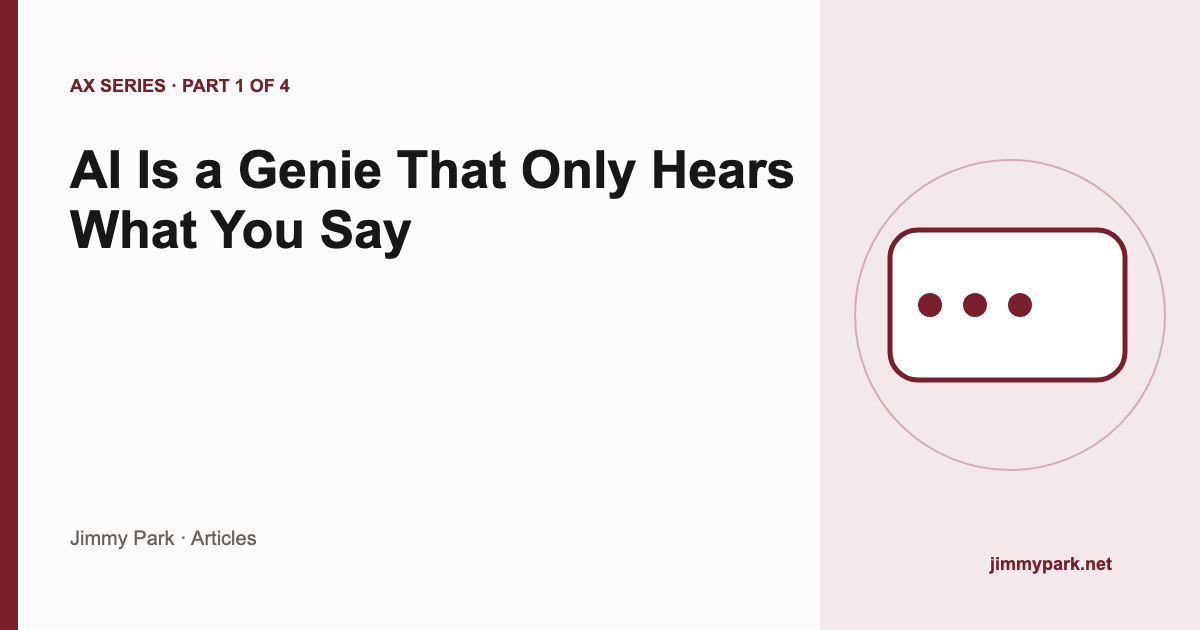
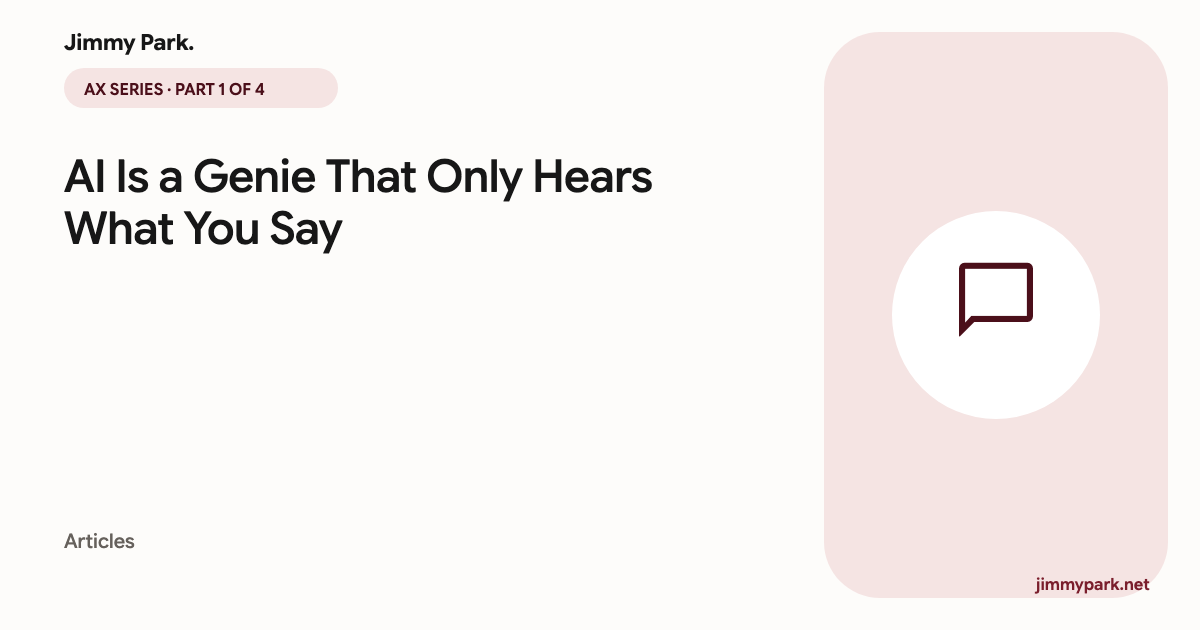
feat: rebuild social cards with Material 3 tokens

diff --git a/insights.html b/insights.html
@@ -2,11 +2,11 @@
 <html lang="en"><head><meta charset="utf-8"><meta name="viewport" content="width=device-width, initial-scale=1">
 <title>Articles | Jimmy Park</title><meta name="description" content="Practical articles on media, web development, applied AI, and Scouting communication."><link rel="canonical" href="https://jimmypark.net/insights">
 <meta property="og:type" content="website"><meta property="og:site_name" content="Jimmy Park"><meta property="og:title" content="Articles | Jimmy Park"><meta property="og:description" content="Practical articles on media, web development, applied AI, and Scouting communication."><meta property="og:url" content="https://jimmypark.net/insights">
-<meta property="og:image" content="https://jimmypark.net/assets/img/og/articles.png"><meta property="og:image:secure_url" content="https://jimmypark.net/assets/img/og/articles.png"><meta property="og:image:width" content="1200"><meta property="og:image:height" content="630"><meta property="og:image:alt" content="Jimmy Park Articles — notes from practice">
-<meta name="twitter:card" content="summary_large_image"><meta name="twitter:image" content="https://jimmypark.net/assets/img/og/articles.png"><meta name="twitter:image:alt" content="Jimmy Park Articles — notes from practice"><meta name="twitter:title" content="Articles | Jimmy Park"><meta name="twitter:description" content="Practical articles on media, web development, applied AI, and Scouting communication.">
+<meta property="og:image" content="https://jimmypark.net/assets/img/og/articles.png?v=0.22.0"><meta property="og:image:secure_url" content="https://jimmypark.net/assets/img/og/articles.png?v=0.22.0"><meta property="og:image:width" content="1200"><meta property="og:image:height" content="630"><meta property="og:image:alt" content="Jimmy Park Articles — notes from practice">
+<meta name="twitter:card" content="summary_large_image"><meta name="twitter:image" content="https://jimmypark.net/assets/img/og/articles.png?v=0.22.0"><meta name="twitter:image:alt" content="Jimmy Park Articles — notes from practice"><meta name="twitter:title" content="Articles | Jimmy Park"><meta name="twitter:description" content="Practical articles on media, web development, applied AI, and Scouting communication.">
 <link rel="icon" href="/assets/img/favicon.svg?v=0.9.0" type="image/svg+xml">
 <link rel="preconnect" href="https://fonts.googleapis.com"><link rel="preconnect" href="https://fonts.gstatic.com" crossorigin><link href="https://fonts.googleapis.com/css2?family=Google+Sans+Flex:opsz,wght@6..144,1..1000&amp;display=swap" rel="stylesheet"><link href="https://fonts.googleapis.com/css2?family=Material+Symbols+Outlined:opsz,wght,FILL,GRAD@20..48,400,0..1,0&amp;display=swap" rel="stylesheet">
-<link rel="stylesheet" href="/assets/site.css?v=0.21.0"></head>
+<link rel="stylesheet" href="/assets/site.css?v=0.22.0"></head>
 <body data-page="insights" class="portfolio"><a class="skip-link" href="#main-content">Skip to content</a>
 <header class="site-header">
   <div class="site-container header-inner">
@@ -59,4 +59,4 @@
     </div>
   </div>
 </footer>
-<script src="/assets/site.js?v=0.21.0" defer></script></body></html>
+<script src="/assets/site.js?v=0.22.0" defer></script></body></html>

diff --git a/lecture.html b/lecture.html
@@ -11,20 +11,20 @@
 <meta property="og:title" content="Lectures &amp; Workshops | Jimmy Park">
 <meta property="og:description" content="Korean-language lectures and workshops by Jimmy Park on branded film, youth media, applied AI and Scouting — plus 1:1 and small-group sessions. English available on request.">
 <meta property="og:url" content="https://jimmypark.net/lecture">
-<meta property="og:image" content="https://jimmypark.net/assets/img/og/lecture.png">
-<meta property="og:image:secure_url" content="https://jimmypark.net/assets/img/og/lecture.png">
+<meta property="og:image" content="https://jimmypark.net/assets/img/og/lecture.png?v=0.22.0">
+<meta property="og:image:secure_url" content="https://jimmypark.net/assets/img/og/lecture.png?v=0.22.0">
 <meta property="og:image:width" content="1200">
 <meta property="og:image:height" content="630">
 <meta property="og:image:alt" content="Jimmy Park lectures and learning — understanding before tools">
 <meta name="twitter:title" content="Lectures &amp; Workshops | Jimmy Park">
 <meta name="twitter:description" content="Korean-language lectures and workshops by Jimmy Park on branded film, youth media, applied AI and Scouting — plus 1:1 and small-group sessions. English available on request.">
 <meta name="twitter:card" content="summary_large_image">
-<meta name="twitter:image" content="https://jimmypark.net/assets/img/og/lecture.png">
+<meta name="twitter:image" content="https://jimmypark.net/assets/img/og/lecture.png?v=0.22.0">
 <meta name="twitter:image:alt" content="Jimmy Park lectures and learning — understanding before tools">
 <link rel="icon" href="/assets/img/favicon.svg?v=0.9.0" type="image/svg+xml">
 <link rel="stylesheet" as="style" crossorigin href="https://cdn.jsdelivr.net/gh/orioncactus/pretendard@v1.3.9/dist/web/static/pretendard.min.css">
 <link rel="preconnect" href="https://fonts.googleapis.com"><link rel="preconnect" href="https://fonts.gstatic.com" crossorigin><link href="https://fonts.googleapis.com/css2?family=Google+Sans+Flex:opsz,wght@6..144,1..1000&amp;display=swap" rel="stylesheet"><link href="https://fonts.googleapis.com/css2?family=Material+Symbols+Outlined:opsz,wght,FILL,GRAD@20..48,400,0..1,0&amp;display=swap" rel="stylesheet">
-<link rel="stylesheet" href="/assets/site.css?v=0.21.0">
+<link rel="stylesheet" href="/assets/site.css?v=0.22.0">
 </head>
 <body data-page="lecture" class="portfolio">
 <a class="skip-link" href="#main-content">Skip to content</a>
@@ -139,6 +139,6 @@ All lectures to date have been delivered in Korean. Korean is the default; Engli
 </footer>
 
 <div class="copy-toast"><span class="msym" aria-hidden="true" style="font-size:17px;">check_circle</span>Copied</div>
-<script src="/assets/site.js?v=0.21.0" defer></script>
+<script src="/assets/site.js?v=0.22.0" defer></script>
 </body>
 </html>

diff --git a/index.html b/index.html
@@ -11,20 +11,20 @@
 <meta property="og:title" content="Jimmy Park (박지민) | Producer, Platform Builder &amp; Applied AI Practitioner">
 <meta property="og:description" content="Jimmy Park (박지민) is a Korea-based producer and builder who turns complex goals into films, learning platforms and practical AI workflows, supported by international collaboration.">
 <meta property="og:url" content="https://jimmypark.net/">
-<meta property="og:image" content="https://jimmypark.net/assets/img/og/home.png">
-<meta property="og:image:secure_url" content="https://jimmypark.net/assets/img/og/home.png">
+<meta property="og:image" content="https://jimmypark.net/assets/img/og/home.png?v=0.22.0">
+<meta property="og:image:secure_url" content="https://jimmypark.net/assets/img/og/home.png?v=0.22.0">
 <meta property="og:image:width" content="1200">
 <meta property="og:image:height" content="630">
 <meta property="og:image:alt" content="Jimmy Park — purpose first, the right medium, built for use">
 <meta name="twitter:card" content="summary_large_image">
 <meta name="twitter:title" content="Jimmy Park (박지민) | Producer, Platform Builder &amp; Applied AI Practitioner">
 <meta name="twitter:description" content="Jimmy Park (박지민) is a Korea-based producer and builder who turns complex goals into films, learning platforms and practical AI workflows, supported by international collaboration.">
-<meta name="twitter:image" content="https://jimmypark.net/assets/img/og/home.png">
+<meta name="twitter:image" content="https://jimmypark.net/assets/img/og/home.png?v=0.22.0">
 <meta name="twitter:image:alt" content="Jimmy Park — purpose first, the right medium, built for use">
 <link rel="icon" href="/assets/img/favicon.svg?v=0.9.0" type="image/svg+xml">
 <link rel="stylesheet" as="style" crossorigin href="https://cdn.jsdelivr.net/gh/orioncactus/pretendard@v1.3.9/dist/web/static/pretendard.min.css">
 <link rel="preconnect" href="https://fonts.googleapis.com"><link rel="preconnect" href="https://fonts.gstatic.com" crossorigin><link href="https://fonts.googleapis.com/css2?family=Google+Sans+Flex:opsz,wght@6..144,1..1000&amp;display=swap" rel="stylesheet"><link href="https://fonts.googleapis.com/css2?family=Material+Symbols+Outlined:opsz,wght,FILL,GRAD@20..48,400,0..1,0&amp;display=swap" rel="stylesheet">
-<link rel="stylesheet" href="/assets/site.css?v=0.21.0">
+<link rel="stylesheet" href="/assets/site.css?v=0.22.0">
 <script type="application/ld+json">
 {
   "@context": "https://schema.org",
@@ -255,6 +255,6 @@ and carry the work through.</h1>
 </footer>
 
 <div class="copy-toast"><span class="msym" aria-hidden="true" style="font-size:17px;">check_circle</span>Copied</div>
-<script src="/assets/site.js?v=0.21.0" defer></script>
+<script src="/assets/site.js?v=0.22.0" defer></script>
 </body>
 </html>

diff --git a/work.html b/work.html
@@ -11,20 +11,20 @@
 <meta property="og:title" content="Media Work: Video Production &amp; Photography | Jimmy Park">
 <meta property="og:description" content="Explore Jimmy Park’s media work: keynote videos, promotional films, branded series and event films with credited roles, plus press-ready field photography.">
 <meta property="og:url" content="https://jimmypark.net/work">
-<meta property="og:image" content="https://jimmypark.net/assets/img/og/media-work.png">
-<meta property="og:image:secure_url" content="https://jimmypark.net/assets/img/og/media-work.png">
+<meta property="og:image" content="https://jimmypark.net/assets/img/og/media-work.png?v=0.22.0">
+<meta property="og:image:secure_url" content="https://jimmypark.net/assets/img/og/media-work.png?v=0.22.0">
 <meta property="og:image:width" content="1200">
 <meta property="og:image:height" content="630">
 <meta property="og:image:alt" content="Jimmy Park media work — stories shaped for attention and meaning">
 <meta name="twitter:title" content="Media Work: Video Production &amp; Photography | Jimmy Park">
 <meta name="twitter:description" content="Explore Jimmy Park’s media work: keynote videos, promotional films, branded series and event films with credited roles, plus press-ready field photography.">
 <meta name="twitter:card" content="summary_large_image">
-<meta name="twitter:image" content="https://jimmypark.net/assets/img/og/media-work.png">
+<meta name="twitter:image" content="https://jimmypark.net/assets/img/og/media-work.png?v=0.22.0">
 <meta name="twitter:image:alt" content="Jimmy Park media work — stories shaped for attention and meaning">
 <link rel="icon" href="/assets/img/favicon.svg?v=0.9.0" type="image/svg+xml">
 <link rel="stylesheet" as="style" crossorigin href="https://cdn.jsdelivr.net/gh/orioncactus/pretendard@v1.3.9/dist/web/static/pretendard.min.css">
 <link rel="preconnect" href="https://fonts.googleapis.com"><link rel="preconnect" href="https://fonts.gstatic.com" crossorigin><link href="https://fonts.googleapis.com/css2?family=Google+Sans+Flex:opsz,wght@6..144,1..1000&amp;display=swap" rel="stylesheet"><link href="https://fonts.googleapis.com/css2?family=Material+Symbols+Outlined:opsz,wght,FILL,GRAD@20..48,400,0..1,0&amp;display=swap" rel="stylesheet">
-<link rel="stylesheet" href="/assets/site.css?v=0.21.0">
+<link rel="stylesheet" href="/assets/site.css?v=0.22.0">
 </head>
 <body data-page="work" class="portfolio">
 <a class="skip-link" href="#main-content">Skip to content</a>
@@ -175,6 +175,6 @@ and field photography.</h1>
 </footer>
 
 <div class="copy-toast"><span class="msym" aria-hidden="true" style="font-size:17px;">check_circle</span>Copied</div>
-<script src="/assets/site.js?v=0.21.0" defer></script>
+<script src="/assets/site.js?v=0.22.0" defer></script>
 </body>
 </html>

diff --git a/scouting.html b/scouting.html
@@ -11,20 +11,20 @@
 <meta property="og:title" content="Global Scouting &amp; International Collaboration | Jimmy Park">
 <meta property="og:description" content="Explore Jimmy Park’s documented Scouting roles, Asia-Pacific Region service, World Scout Jamboree media work and international experience.">
 <meta property="og:url" content="https://jimmypark.net/scouting">
-<meta property="og:image" content="https://jimmypark.net/assets/img/og/scouting.png">
-<meta property="og:image:secure_url" content="https://jimmypark.net/assets/img/og/scouting.png">
+<meta property="og:image" content="https://jimmypark.net/assets/img/og/scouting.png?v=0.22.0">
+<meta property="og:image:secure_url" content="https://jimmypark.net/assets/img/og/scouting.png?v=0.22.0">
 <meta property="og:image:width" content="1200">
 <meta property="og:image:height" content="630">
 <meta property="og:image:alt" content="Jimmy Park global and Scouting work — context changes the work">
 <meta name="twitter:title" content="Global Scouting &amp; International Collaboration | Jimmy Park">
 <meta name="twitter:description" content="Explore Jimmy Park’s documented Scouting roles, Asia-Pacific Region service, World Scout Jamboree media work and international experience.">
 <meta name="twitter:card" content="summary_large_image">
-<meta name="twitter:image" content="https://jimmypark.net/assets/img/og/scouting.png">
+<meta name="twitter:image" content="https://jimmypark.net/assets/img/og/scouting.png?v=0.22.0">
 <meta name="twitter:image:alt" content="Jimmy Park global and Scouting work — context changes the work">
 <link rel="icon" href="/assets/img/favicon.svg?v=0.9.0" type="image/svg+xml">
 <link rel="stylesheet" as="style" crossorigin href="https://cdn.jsdelivr.net/gh/orioncactus/pretendard@v1.3.9/dist/web/static/pretendard.min.css">
 <link rel="preconnect" href="https://fonts.googleapis.com"><link rel="preconnect" href="https://fonts.gstatic.com" crossorigin><link href="https://fonts.googleapis.com/css2?family=Google+Sans+Flex:opsz,wght@6..144,1..1000&amp;display=swap" rel="stylesheet"><link href="https://fonts.googleapis.com/css2?family=Material+Symbols+Outlined:opsz,wght,FILL,GRAD@20..48,400,0..1,0&amp;display=swap" rel="stylesheet">
-<link rel="stylesheet" href="/assets/site.css?v=0.21.0">
+<link rel="stylesheet" href="/assets/site.css?v=0.22.0">
 </head>
 <body data-page="scouting" class="portfolio">
 <a class="skip-link" href="#main-content">Skip to content</a>
@@ -222,6 +222,6 @@ international collaboration.</h1>
 </dialog>
 
 <div class="copy-toast"><span class="msym" aria-hidden="true" style="font-size:17px;">check_circle</span>Copied</div>
-<script src="/assets/site.js?v=0.21.0" defer></script>
+<script src="/assets/site.js?v=0.22.0" defer></script>
 </body>
 </html>

diff --git a/dev.html b/dev.html
@@ -11,20 +11,20 @@
 <meta property="og:title" content="Dev Work: Practical Websites &amp; Applied AI | Jimmy Park">
 <meta property="og:description" content="Practical websites and web tools shaped around user needs, with applied AI supporting planning, development, and ongoing operations.">
 <meta property="og:url" content="https://jimmypark.net/dev">
-<meta property="og:image" content="https://jimmypark.net/assets/img/og/dev-work.png">
-<meta property="og:image:secure_url" content="https://jimmypark.net/assets/img/og/dev-work.png">
+<meta property="og:image" content="https://jimmypark.net/assets/img/og/dev-work.png?v=0.22.0">
+<meta property="og:image:secure_url" content="https://jimmypark.net/assets/img/og/dev-work.png?v=0.22.0">
 <meta property="og:image:width" content="1200">
 <meta property="og:image:height" content="630">
 <meta property="og:image:alt" content="Jimmy Park development work — platforms built for real use">
 <meta name="twitter:title" content="Dev Work: Practical Websites &amp; Applied AI | Jimmy Park">
 <meta name="twitter:description" content="Practical websites and web tools shaped around user needs, with applied AI supporting planning, development, and ongoing operations.">
 <meta name="twitter:card" content="summary_large_image">
-<meta name="twitter:image" content="https://jimmypark.net/assets/img/og/dev-work.png">
+<meta name="twitter:image" content="https://jimmypark.net/assets/img/og/dev-work.png?v=0.22.0">
 <meta name="twitter:image:alt" content="Jimmy Park development work — platforms built for real use">
 <link rel="icon" href="/assets/img/favicon.svg?v=0.9.0" type="image/svg+xml">
 <link rel="stylesheet" as="style" crossorigin href="https://cdn.jsdelivr.net/gh/orioncactus/pretendard@v1.3.9/dist/web/static/pretendard.min.css">
 <link rel="preconnect" href="https://fonts.googleapis.com"><link rel="preconnect" href="https://fonts.gstatic.com" crossorigin><link href="https://fonts.googleapis.com/css2?family=Google+Sans+Flex:opsz,wght@6..144,1..1000&amp;display=swap" rel="stylesheet"><link href="https://fonts.googleapis.com/css2?family=Material+Symbols+Outlined:opsz,wght,FILL,GRAD@20..48,400,0..1,0&amp;display=swap" rel="stylesheet">
-<link rel="stylesheet" href="/assets/site.css?v=0.21.0">
+<link rel="stylesheet" href="/assets/site.css?v=0.22.0">
 </head>
 <body data-page="dev" class="portfolio">
 <a class="skip-link" href="#main-content">Skip to content</a>
@@ -147,6 +147,6 @@ Build a practical path with AI.</h1>
 </footer>
 
 <div class="copy-toast"><span class="msym" aria-hidden="true" style="font-size:17px;">check_circle</span>Copied</div>
-<script src="/assets/site.js?v=0.21.0" defer></script>
+<script src="/assets/site.js?v=0.22.0" defer></script>
 </body>
 </html>

diff --git a/contact.html b/contact.html
@@ -11,20 +11,20 @@
 <meta property="og:title" content="Contact Jimmy Park | Video, Education &amp; AI">
 <meta property="og:description" content="Contact Jimmy Park to share a brief for video, learning platforms, applied AI workflows, or global Scouting collaboration.">
 <meta property="og:url" content="https://jimmypark.net/contact">
-<meta property="og:image" content="https://jimmypark.net/assets/img/og/contact.png">
-<meta property="og:image:secure_url" content="https://jimmypark.net/assets/img/og/contact.png">
+<meta property="og:image" content="https://jimmypark.net/assets/img/og/contact.png?v=0.22.0">
+<meta property="og:image:secure_url" content="https://jimmypark.net/assets/img/og/contact.png?v=0.22.0">
 <meta property="og:image:width" content="1200">
 <meta property="og:image:height" content="630">
 <meta property="og:image:alt" content="Start a conversation with Jimmy Park">
 <meta name="twitter:title" content="Contact Jimmy Park | Video, Education &amp; AI">
 <meta name="twitter:description" content="Contact Jimmy Park to share a brief for video, learning platforms, applied AI workflows, or global Scouting collaboration.">
 <meta name="twitter:card" content="summary_large_image">
-<meta name="twitter:image" content="https://jimmypark.net/assets/img/og/contact.png">
+<meta name="twitter:image" content="https://jimmypark.net/assets/img/og/contact.png?v=0.22.0">
 <meta name="twitter:image:alt" content="Start a conversation with Jimmy Park">
 <link rel="icon" href="/assets/img/favicon.svg?v=0.9.0" type="image/svg+xml">
 <link rel="stylesheet" as="style" crossorigin href="https://cdn.jsdelivr.net/gh/orioncactus/pretendard@v1.3.9/dist/web/static/pretendard.min.css">
 <link rel="preconnect" href="https://fonts.googleapis.com"><link rel="preconnect" href="https://fonts.gstatic.com" crossorigin><link href="https://fonts.googleapis.com/css2?family=Google+Sans+Flex:opsz,wght@6..144,1..1000&amp;display=swap" rel="stylesheet"><link href="https://fonts.googleapis.com/css2?family=Material+Symbols+Outlined:opsz,wght,FILL,GRAD@20..48,400,0..1,0&amp;display=swap" rel="stylesheet">
-<link rel="stylesheet" href="/assets/site.css?v=0.21.0">
+<link rel="stylesheet" href="/assets/site.css?v=0.22.0">
 </head>
 <body data-page="contact" class="portfolio">
 <a class="skip-link" href="#main-content">Skip to content</a>
@@ -153,6 +153,6 @@ Timeline:
 </footer>
 
 <div class="copy-toast"><span class="msym" aria-hidden="true" style="font-size:17px;">check_circle</span>Copied</div>
-<script src="/assets/site.js?v=0.21.0" defer></script>
+<script src="/assets/site.js?v=0.22.0" defer></script>
 </body>
 </html>

diff --git a/admin.html b/admin.html
@@ -8,7 +8,7 @@
 <link rel="icon" href="/assets/img/favicon.svg?v=0.9.0" type="image/svg+xml">
 <link rel="stylesheet" as="style" crossorigin href="https://cdn.jsdelivr.net/gh/orioncactus/pretendard@v1.3.9/dist/web/static/pretendard.min.css">
 <link rel="preconnect" href="https://fonts.googleapis.com"><link rel="preconnect" href="https://fonts.gstatic.com" crossorigin><link href="https://fonts.googleapis.com/css2?family=Google+Sans+Flex:opsz,wght@6..144,1..1000&amp;display=swap" rel="stylesheet"><link href="https://fonts.googleapis.com/css2?family=Material+Symbols+Outlined:opsz,wght,FILL,GRAD@20..48,400,0..1,0&amp;display=swap" rel="stylesheet">
-<link rel="stylesheet" href="/assets/site.css?v=0.21.0">
+<link rel="stylesheet" href="/assets/site.css?v=0.22.0">
 <style>
   /* Admin and the portfolio share the owner-selected Wanted Sans family. */
   body { background: #f7f6f3; font-family: 'Wanted Sans Variable', 'Pretendard', -apple-system, BlinkMacSystemFont, 'Segoe UI', system-ui, sans-serif; }
@@ -209,7 +209,7 @@
 </div>
 
 <input id="file-input" type="file" accept="image/*" multiple style="display:none;">
-<script src="/assets/insights-admin.js?v=0.21.0" defer></script>
-<script src="/assets/admin.js?v=0.21.0" defer></script>
+<script src="/assets/insights-admin.js?v=0.22.0" defer></script>
+<script src="/assets/admin.js?v=0.22.0" defer></script>
 </body>
 </html>

diff --git a/functions/_insights-shell.js b/functions/_insights-shell.js
@@ -6,7 +6,7 @@ export const INSIGHTS_SHELL = `<!DOCTYPE html>
 <meta name="twitter:card" content="summary_large_image"><meta name="twitter:image" content="__IMAGE__"><meta name="twitter:image:alt" content="__IMAGE_ALT__"><meta name="twitter:title" content="__TITLE__"><meta name="twitter:description" content="__DESC__">__ROBOTS__
 <link rel="icon" href="/assets/img/favicon.svg?v=0.9.0" type="image/svg+xml">
 <link rel="preconnect" href="https://fonts.googleapis.com"><link rel="preconnect" href="https://fonts.gstatic.com" crossorigin><link href="https://fonts.googleapis.com/css2?family=Google+Sans+Flex:opsz,wght@6..144,1..1000&amp;display=swap" rel="stylesheet"><link href="https://fonts.googleapis.com/css2?family=Material+Symbols+Outlined:opsz,wght,FILL,GRAD@20..48,400,0..1,0&amp;display=swap" rel="stylesheet">
-<link rel="stylesheet" href="/assets/site.css?v=0.21.0"></head>
+<link rel="stylesheet" href="/assets/site.css?v=0.22.0"></head>
 <body data-page="insights" class="portfolio"><a class="skip-link" href="#main-content">Skip to content</a>
 <header class="site-header">
   <div class="site-container header-inner">
@@ -59,4 +59,4 @@ export const INSIGHTS_SHELL = `<!DOCTYPE html>
     </div>
   </div>
 </footer>
-<script src="/assets/site.js?v=0.21.0" defer></script></body></html>`;
+<script src="/assets/site.js?v=0.22.0" defer></script></body></html>`;

diff --git a/404.html b/404.html
@@ -5,7 +5,7 @@
 <meta name="twitter:card" content="summary"><meta name="twitter:title" content="Page not found | Jimmy Park"><meta name="twitter:description" content="This page could not be found. Explore Jimmy Park’s work or return to the homepage.">
 <link rel="icon" href="/assets/img/favicon.svg?v=0.9.0" type="image/svg+xml">
 <link rel="preconnect" href="https://fonts.googleapis.com"><link rel="preconnect" href="https://fonts.gstatic.com" crossorigin><link href="https://fonts.googleapis.com/css2?family=Google+Sans+Flex:opsz,wght@6..144,1..1000&amp;display=swap" rel="stylesheet"><link href="https://fonts.googleapis.com/css2?family=Material+Symbols+Outlined:opsz,wght,FILL,GRAD@20..48,400,0..1,0&amp;display=swap" rel="stylesheet">
-<link rel="stylesheet" href="/assets/site.css?v=0.21.0"></head>
+<link rel="stylesheet" href="/assets/site.css?v=0.22.0"></head>
 <body data-page="not-found" class="portfolio"><a class="skip-link" href="#main-content">Skip to content</a>
 <header class="site-header">
   <div class="site-container header-inner">
@@ -58,4 +58,4 @@
     </div>
   </div>
 </footer>
-<script src="/assets/site.js?v=0.21.0" defer></script></body></html>
+<script src="/assets/site.js?v=0.22.0" defer></script></body></html>

diff --git a/functions/_insights-view.js b/functions/_insights-view.js
@@ -64,11 +64,11 @@ const SERIES = {
   'if-people-cannot-understand-it-little-remains': { name: 'The Work Behind the Work', part: 4 },
 };
 const PAGE_SIZE = 5;
-const DEFAULT_IMAGE = 'https://jimmypark.net/assets/img/og/articles.png';
+const DEFAULT_IMAGE = 'https://jimmypark.net/assets/img/og/articles.png?v=0.22.0';
 
 function articleImage(post) {
   const value = String(post?.image || '').trim();
-  if (/^\/assets\/img\/[A-Za-z0-9._/-]+$/u.test(value)) return 'https://jimmypark.net' + value;
+  if (/^\/assets\/img\/[A-Za-z0-9._/-]+$/u.test(value)) return 'https://jimmypark.net' + value + (value.startsWith('/assets/img/og/') ? '?v=0.22.0' : '');
   if (/^https:\/\/[^\s]+$/u.test(value)) return value;
   return DEFAULT_IMAGE;
 }

diff --git a/design.md b/design.md
@@ -558,5 +558,17 @@ these roles; new rules should use the `--md-*` names directly.
   wrapping row below tags and above the conversation CTA, so the reading column remains usable at
   phone widths without platform-specific colors competing with the site identity.
 
+## 22. Material 3 OG artwork (v0.22.0)
+- OG cards are not an official Material component. They adapt the system using the site token map:
+  surface low background, primary/tertiary containers, on-container icon color, outline variants,
+  8px-based spacing, 28px/full shapes and the M3 display/label hierarchy.
+- Google Sans Flex is required for every text layer. Topic illustrations use only official Material
+  Symbols Outlined inside a tonal container and surface circle; handcrafted replacement icons are
+  not part of this system.
+- Portfolio page cards may use owned photography in a 28px rounded supporting pane. Article cards
+  use one large tonal supporting pane and a single semantically relevant Material Symbol.
+- Keep `jimmypark.net`, series/section label, title and identity text inside the 64px safe area.
+  Regenerate and visually inspect long titles after any copy or font change.
+
 ## SETUKOR connection (2026-09-16)
 `/setukor` and `/setukor/` redirect (302) to `https://setukor-learning.jimmy-park.chatgpt.site/`, preserving the query string. Handled in `functions/_middleware.js`.
